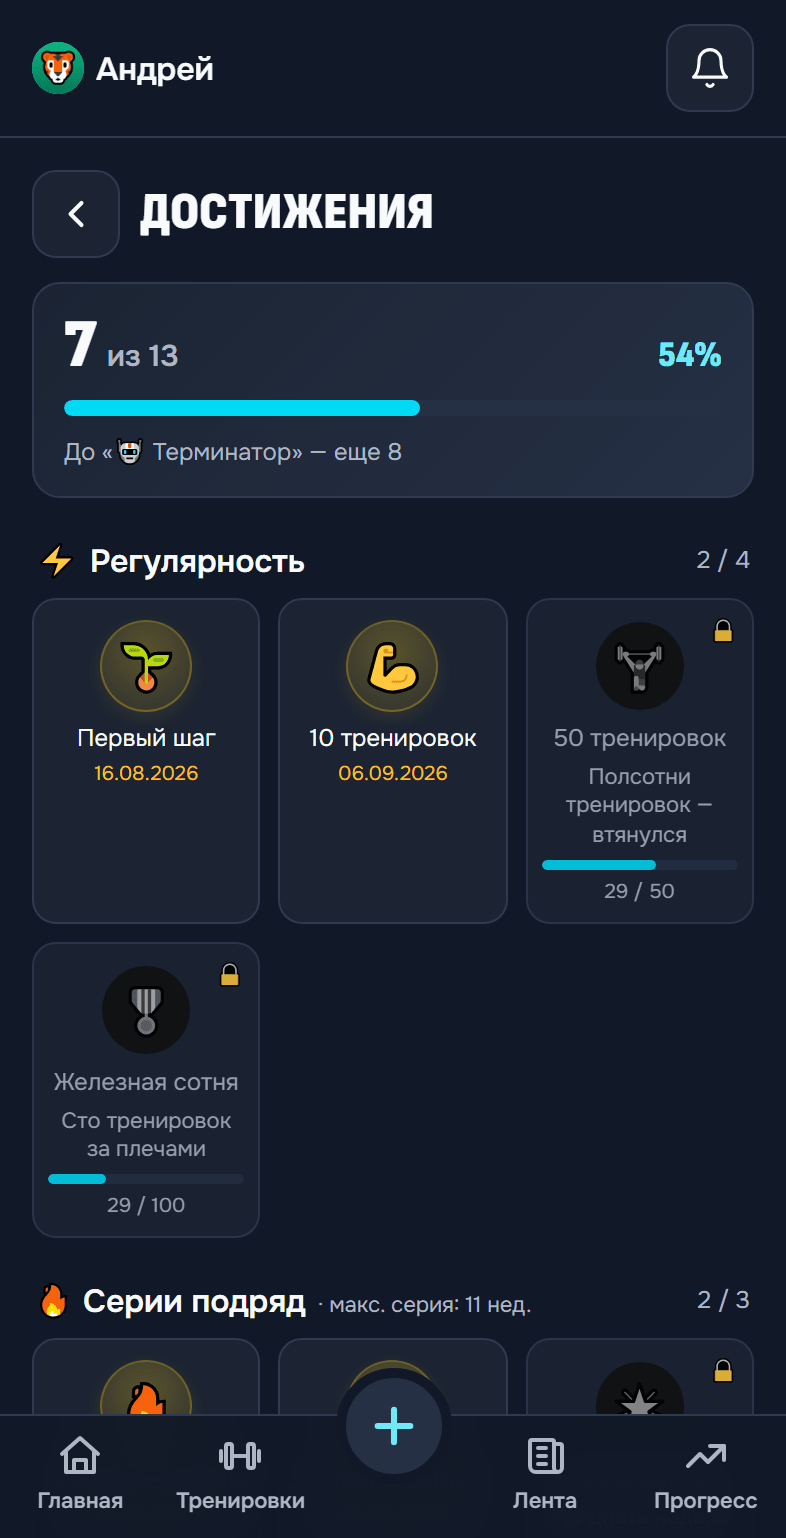
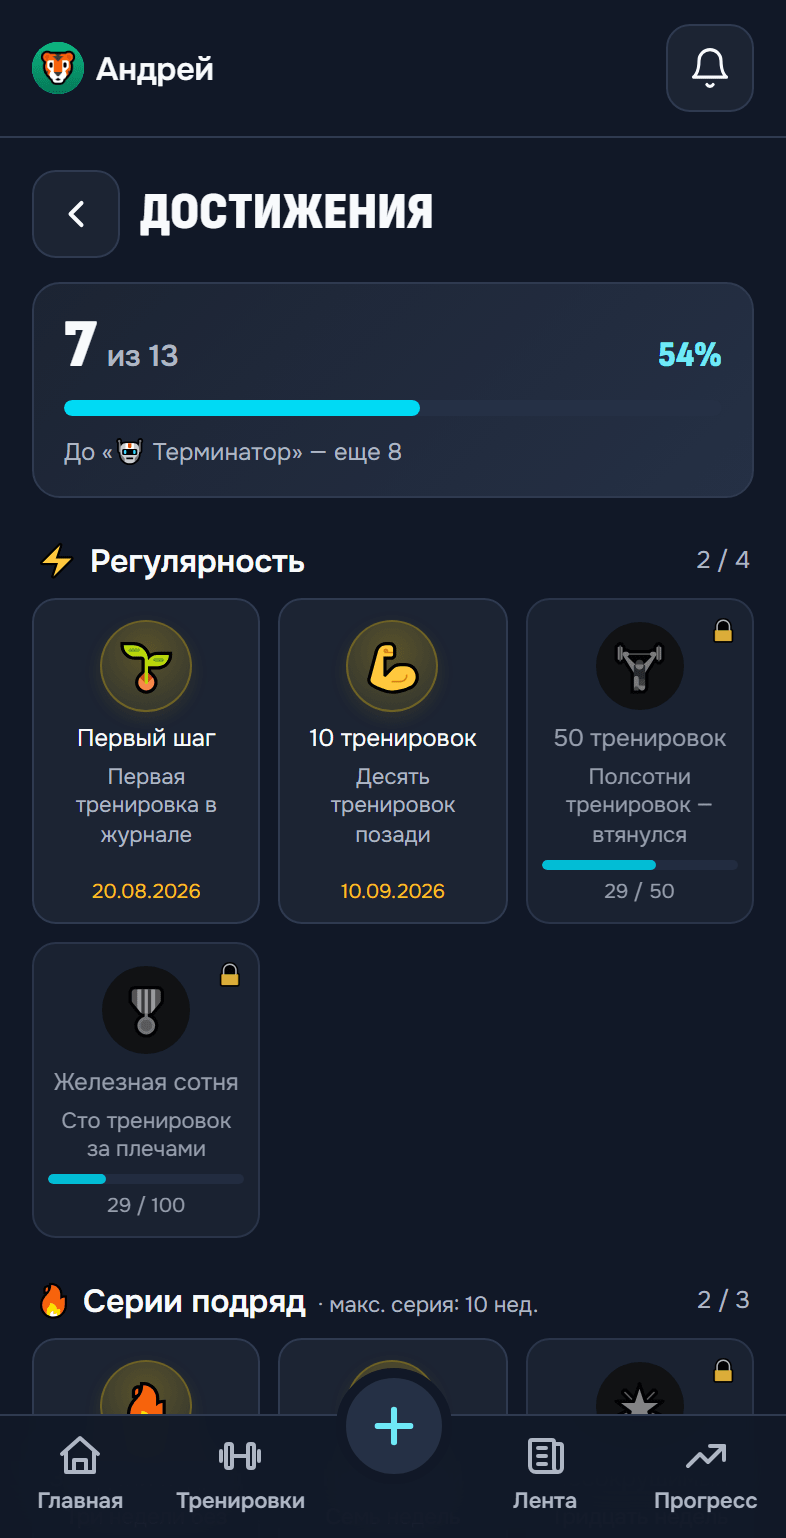
fix(achievements): плитки без пустот — описание и у полученных, дата и прогресс на одной линии

Changed region(s): [[0.0916, 0.4993, 0.2748, 0.593], [0.4275, 0.4993, 0.5802, 0.593], [0.6107, 0.8427, 0.6718, 0.8739]]

diff --git a/src/screens/AchievementsScreen.jsx b/src/screens/AchievementsScreen.jsx
@@ -65,8 +65,10 @@ export default function AchievementsScreen({ user, onBack }) {
                     {!b.done && <span className="ach-lock" aria-hidden="true">🔒</span>}
                     <div className="ach-ico">{b.def.icon}</div>
                     <div className="ach-nm">{b.def.name}</div>
-                    {/* Условие — текстом, а не только в title: на телефоне подсказки нет (UI-ревью 23.10). */}
-                    {!b.done && b.def.desc && <div className="ach-desc">{b.def.desc}</div>}
+                    {/* Условие — текстом, а не только в title: на телефоне подсказки нет (UI-ревью 23.10).
+                        У полученных тоже (fb_8b4685cc): ряд тянется по самой высокой плитке, и без
+                        описания полученная оставалась пустой наполовину. */}
+                    {b.def.desc && <div className="ach-desc">{b.def.desc}</div>}
                     {b.done ? (
                       <div className="ach-dt">
                         {b.at ? fmtWhen(b.at) : 'получено'}

diff --git a/src/content/whatsNew.js b/src/content/whatsNew.js
@@ -28,7 +28,7 @@
 
 export const WHATS_NEW = [
   {
-    version: '1.6.0',
+    version: '1.6.1',
     date: '2026-10-27',
     headline: 'Вес и замеры',
     main: [
@@ -38,6 +38,7 @@ export const WHATS_NEW = [
     minor: [
       { e: '🙈', t: '«Скрыть цифры» в «Весе и замерах» — график остается, числа прячутся' },
       { e: '👆', t: 'По графику веса можно тапнуть — видно дату и вес взвешивания' },
+      { e: '🏅', t: 'Плитки «Достижений» без пустот — у полученных видно, за что' },
       { e: '🔘', t: 'Кнопки «Отмена» и «Сохранить» в настройках — ровные, одной высоты' },
       { e: '✔', t: 'Галочки и предупреждения — иконками, а не эмодзи' },
       { e: '🔑', t: 'Подсказки в полях PIN читаются ровно, без разрядки' },

diff --git a/src/screens/AchievementsScreen.test.jsx b/src/screens/AchievementsScreen.test.jsx
@@ -46,7 +46,10 @@ describe('AchievementsScreen', () => {
     const [on, off] = container.querySelectorAll('.ach-badge')
     expect(on).toHaveClass('on')
     expect(on).toHaveTextContent('получено') // без даты — честное «получено»
+    // Описание и у полученного: иначе плитка в ряду с закрытыми пустая наполовину (fb_8b4685cc).
+    expect(on.querySelector('.ach-desc')).toHaveTextContent('Десять')
     expect(off).toHaveClass('off')
+    expect(off.querySelector('.ach-desc')).toHaveTextContent('Полсотни')
     expect(off).toHaveTextContent('12 / 50')
     expect(off.querySelector('.ach-pb i').style.width).toBe('24%')
   })

diff --git a/src/index.css b/src/index.css
@@ -3684,7 +3684,10 @@ label.act.busy { opacity: .55; pointer-events: none; }
   padding: 11px 7px 9px;
   text-align: center;
   position: relative;
+  /* Ряд тянется по самой высокой плитке: дата и прогресс — внизу, на одной линии у соседей. */
+  display: flex; flex-direction: column;
 }
+.ach-badge > .ach-dt, .ach-badge > .ach-prog { margin-top: auto; padding-top: 6px; }
 .ach-ico {
   width: 44px; height: 44px; margin: 0 auto 7px;
   border-radius: 50%;

diff --git a/public/push-sw.js b/public/push-sw.js
@@ -9,7 +9,7 @@
 
 // Версия этого файла (v8.9.6) = версия приложения; сверяет тест src/lib/pushIntent.test.js.
 // Отвечает на «пинг» журнала нажатий: так видно, что пуши обрабатывает свежий код.
-const PUSH_SW_VER = '1.6.0'
+const PUSH_SW_VER = '1.6.1'
 
 self.addEventListener('push', (event) => {
   let data

diff --git a/README.md b/README.md
@@ -170,4 +170,4 @@ kachalka-app можно добавить на главный экран теле
 
 ---
 
-**kachalka-app · v1.6.0**
+**kachalka-app · v1.6.1**
